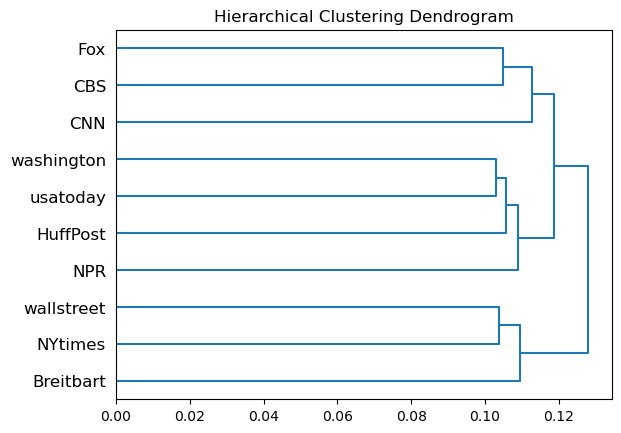
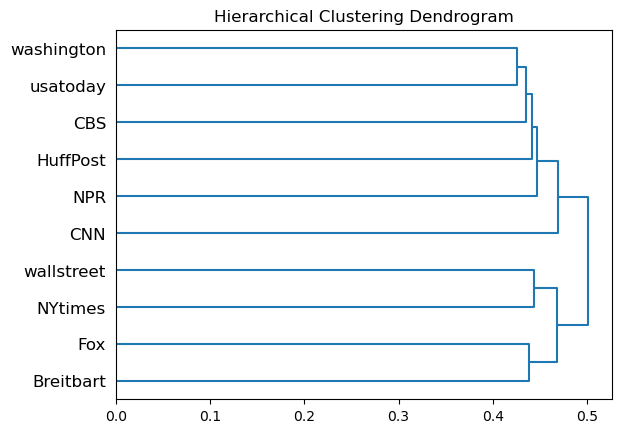
mutual info

diff --git a/program/analysis.py b/program/analysis.py
@@ -24,7 +24,7 @@ from sklearn.cluster import (
     DBSCAN,
     OPTICS,
     Birch)
-from sklearn.metrics import adjusted_rand_score
+from sklearn.metrics import adjusted_rand_score,adjusted_mutual_info_score
 from scipy.cluster.hierarchy import dendrogram
 from sklearn.metrics.pairwise import(
     cosine_distances
@@ -547,7 +547,7 @@ class ClusterCompare(object):
                 elif self._analysis_args.graph_distance == 'co_occurance':
                     distance = self._co_occurance_distance(graph_list[i],graph_list[base_index])
                 elif self._analysis_args.graph_distance == 'adjusted_rand_index':
-                    distance = adjusted_rand_score(graph_list[base_index],graph_list[i])
+                    distance = adjusted_mutual_info_score(graph_list[base_index],graph_list[i])
                 elif self._analysis_args.graph_distance == 'edit':
                     distance = simple_distance(
                         graph_list[base_index], graph_list[i])
